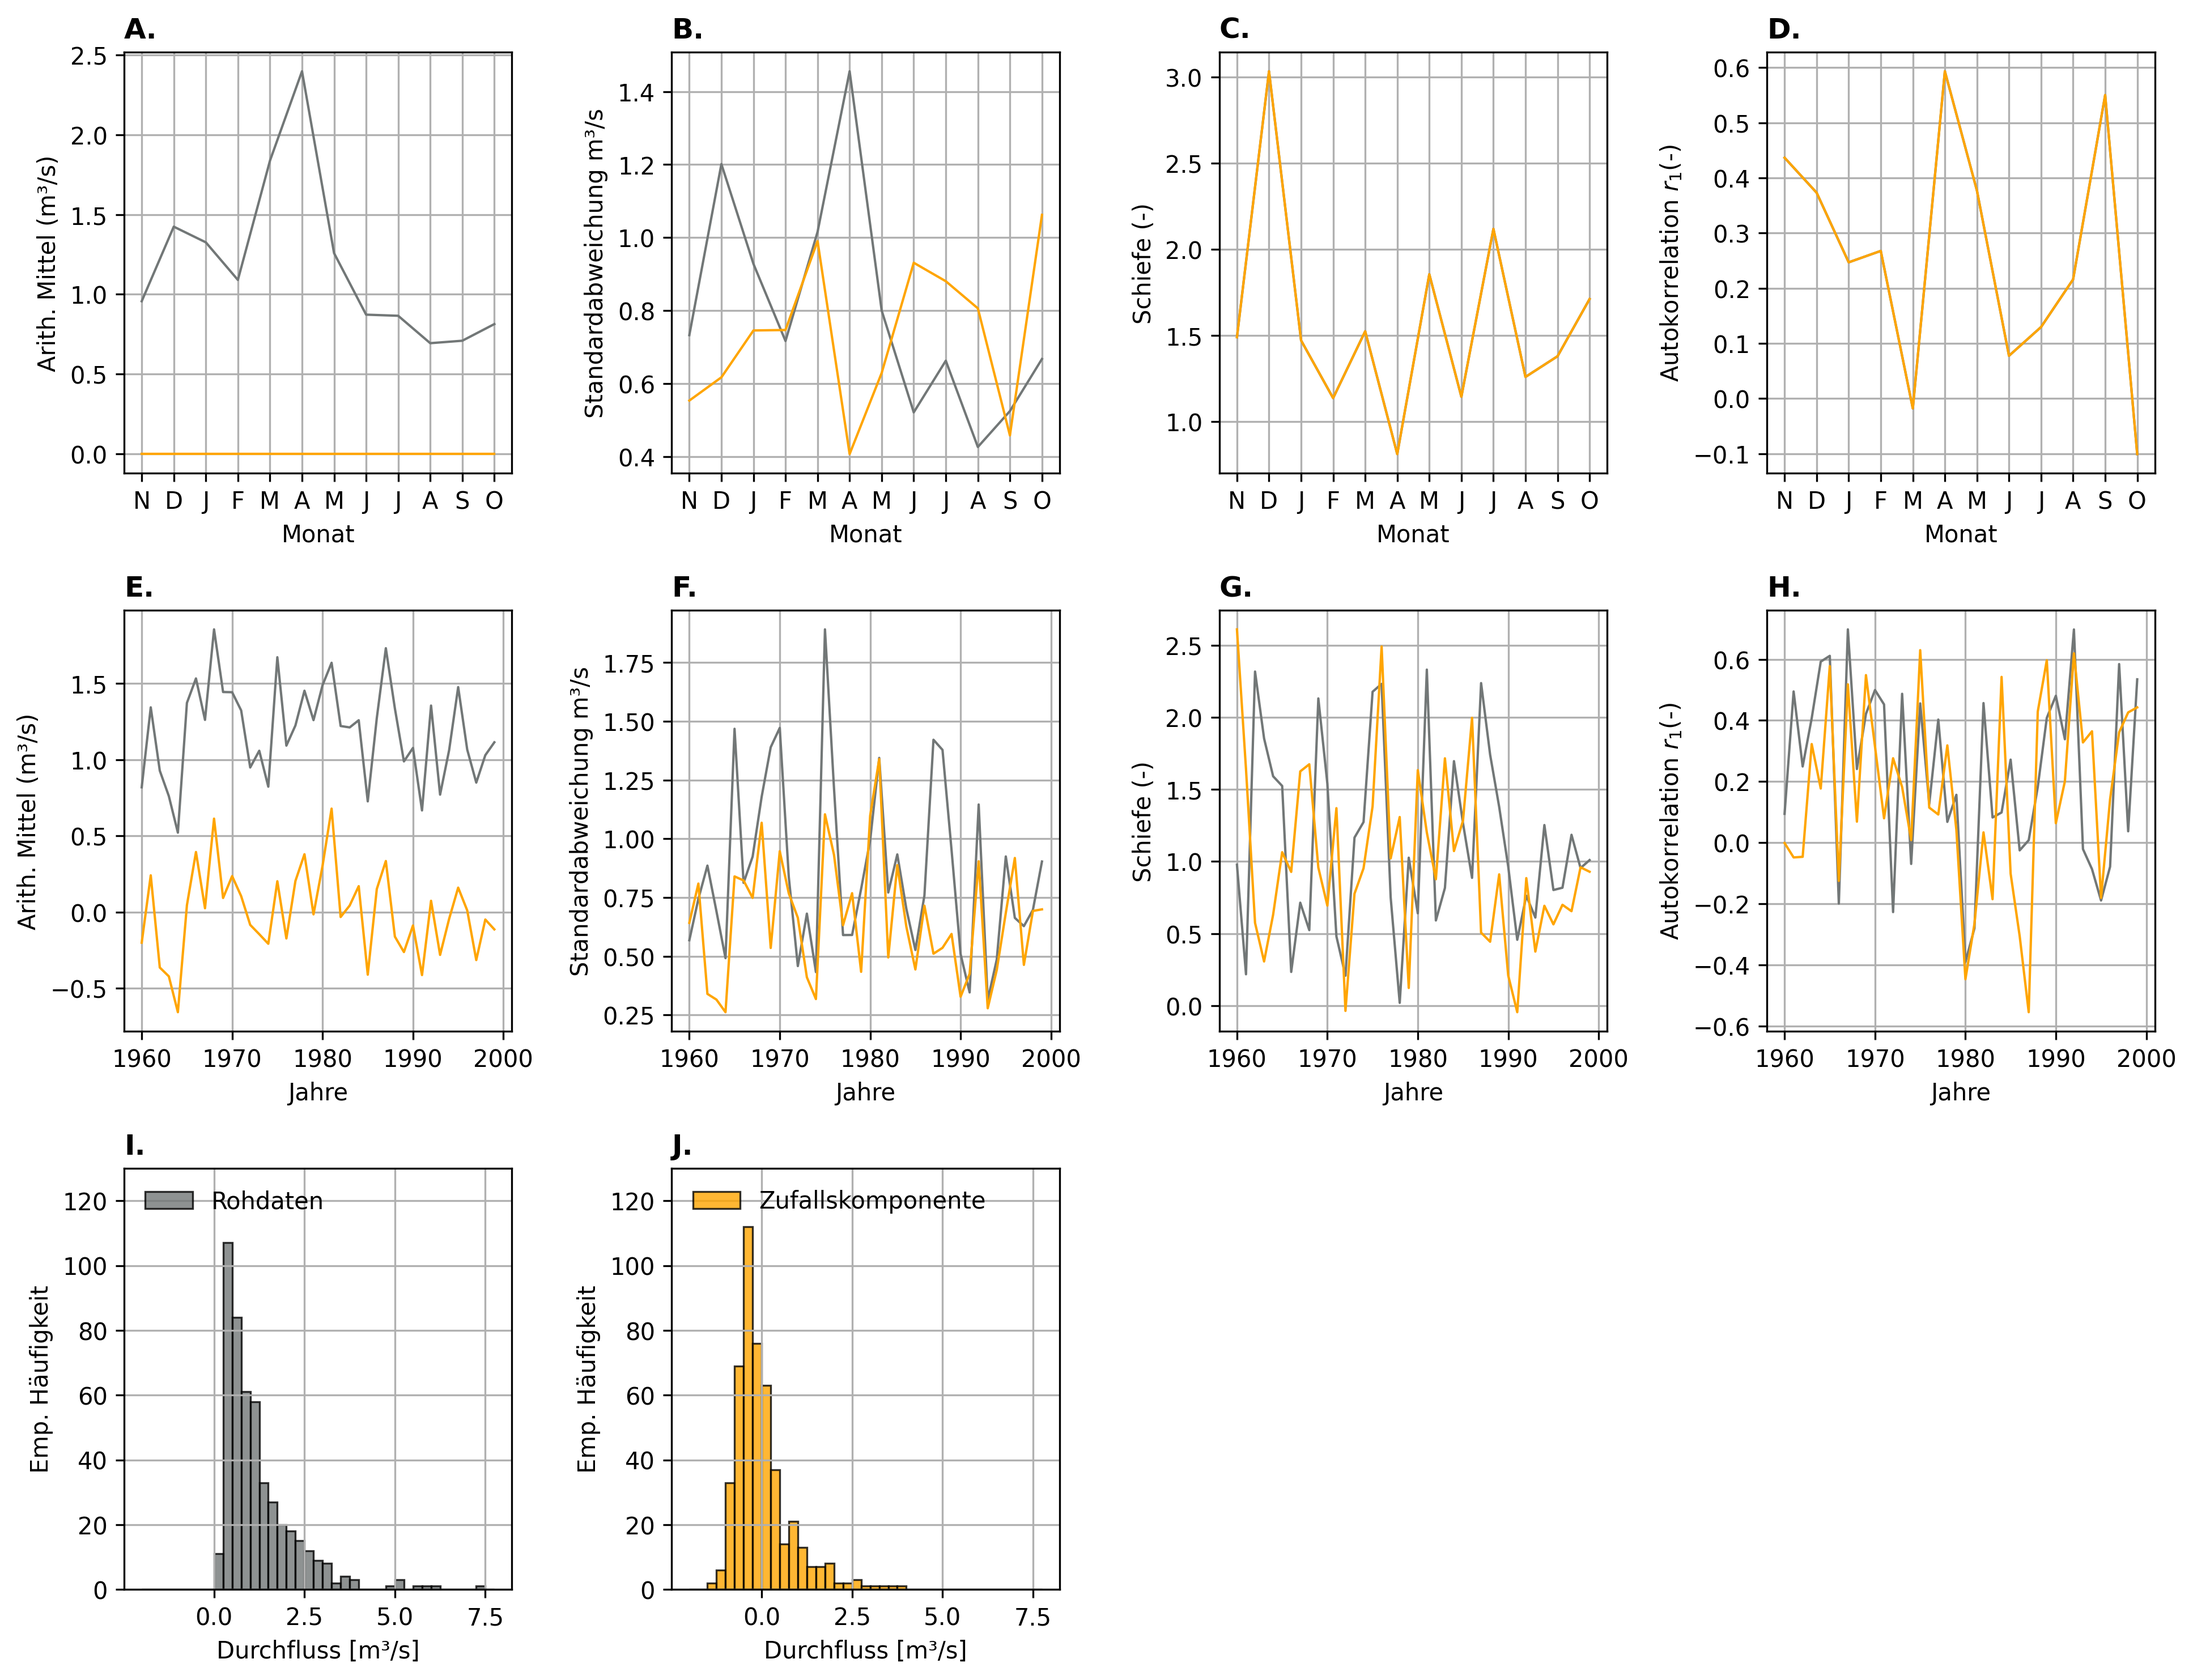
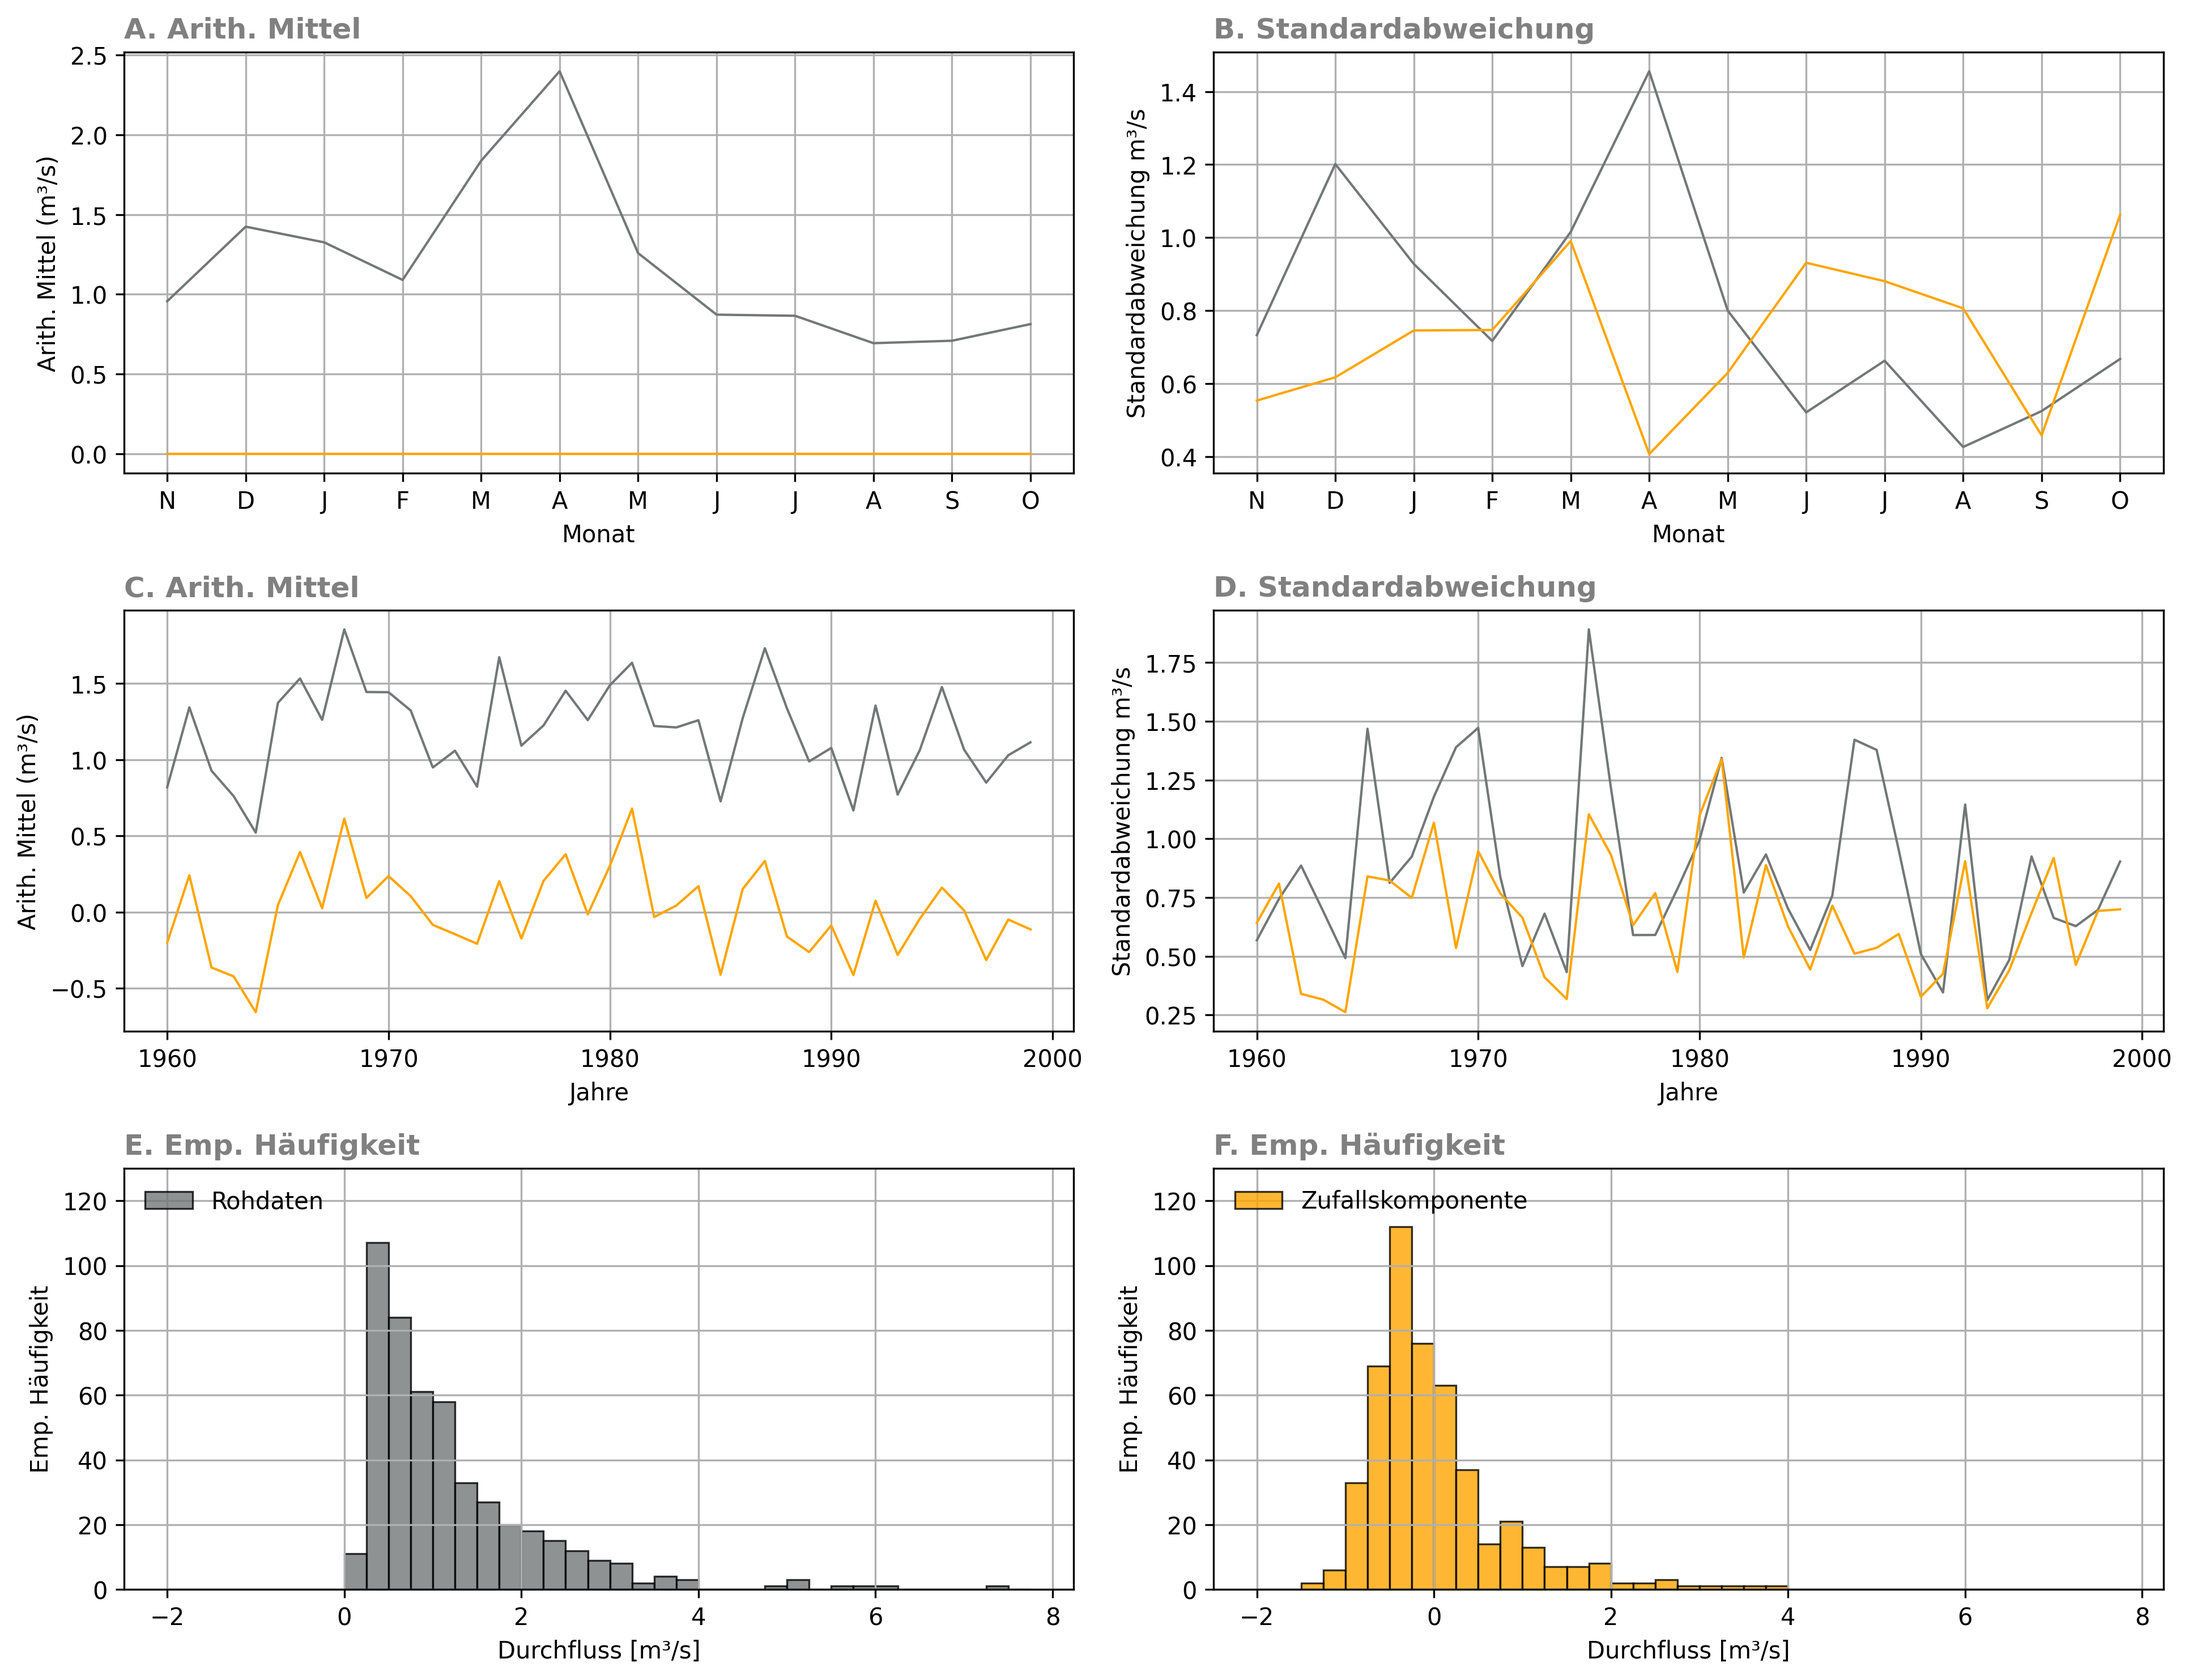
Reduce characteristics plot to mean std and hist

diff --git a/code/utils/plotting.py b/code/utils/plotting.py
@@ -298,6 +298,58 @@ def plot_characteristics(df: pd.DataFrame) -> None:
     plt.tight_layout()
     plt.savefig(image_path+f"{pegelname}_characteristics.png", dpi=300, bbox_inches="tight")    
 
+def plot_characteristics_short(df: pd.DataFrame) -> None:
+    """Plot statistics and histograms for different components."""
+    
+    _, ax = plt.subplots(nrows=3, ncols=2, figsize=(13, 10))
+    labels = ["Rohdaten", "Zufallskomponente"]
+    vars = ["Durchfluss_m3s", "zufall"]
+    colors = [tu_grey, "orange"]
+    ylabels = ["Arith. Mittel (m³/s)", "Standardabweichung m³/s"]
+    letters = ["A. Arith. Mittel", "B. Standardabweichung", "C. Arith. Mittel", "D. Standardabweichung", "E. Emp. Häufigkeit", "F. Emp. Häufigkeit"]
+    
+    for i in range(len(labels)):
+        var, label, color = vars[i], labels[i], colors[i]
+
+        x_months = np.arange(1, 13)
+        x_years = st.hyd_years(df)
+        
+        # upper row plots
+        ax[0,0].plot(x_months, st.binned_stats(df, var=var, bin="monthly", func=np.mean),
+                    c=color, linewidth=1, label=label)
+        ax[0,1].plot(x_months, st.binned_stats(df, var=var, bin="monthly", func=np.std),
+                    c=color, linewidth=1, label=label)
+         
+        # middle row plots
+        ax[1,0].plot(x_years, st.binned_stats(df, var=var, bin="yearly", func=np.mean),
+                    c=color, linewidth=1, label=label)
+        ax[1,1].plot(x_years, st.binned_stats(df, var=var, bin="yearly", func=np.std),
+                    c=color, linewidth=1, label=label)
+        
+        # lower row plots
+        hist_kwargs = {"bins": np.arange(-2, 8, 0.25), "lw": 0.8, "edgecolor": "black", "alpha": 0.8}
+        ax[2,i].hist(df[vars[i]], color=colors[i], label=labels[i], **hist_kwargs)
+    
+    for row_i in range(len(ax)):
+        for col_i in range(len(ax[row_i])):
+            ax[row_i, col_i].set_title(letters[row_i*len(ax[row_i])+col_i], loc='left', fontsize=12, fontweight="bold", color="grey")
+            ax[row_i, col_i].grid()
+            ax[0, col_i].set_xlabel("Monat")
+            ax[1, col_i].set_xlabel("Jahre")
+            ax[2, col_i].set_xlabel("Durchfluss [m³/s]")
+            ax[2, col_i].set_ylabel("Emp. Häufigkeit")
+            ax[0, col_i].set_ylabel(ylabels[col_i])
+            ax[1, col_i].set_ylabel(ylabels[col_i])
+            ax[0, col_i].set_xticks(x_months)
+            ax[0, col_i].set_xticklabels(MONTH_ABB)
+            ax[1, col_i].set_xticks([1960, 1970, 1980, 1990, 2000])
+            ax[1, col_i].set_xticklabels([1960, 1970, 1980, 1990, 2000])
+            ax[2, col_i].set_ylim([0, 130])
+            ax[2, col_i].legend(frameon=False, loc="upper left")
+            
+    plt.tight_layout()
+    plt.savefig(image_path+f"{pegelname}_characteristics.png", dpi=300, bbox_inches="tight")    
+
 def pairplot(df: pd.DataFrame) -> None:
     """Plot pairplot."""
     

diff --git a/code/utils/components/irregular_comp.py b/code/utils/components/irregular_comp.py
@@ -1,6 +1,6 @@
 import pandas as pd
 
-from utils.plotting  import plot_components, plot_characteristics, pairplot
+from utils.plotting  import plot_components, plot_characteristics_short, pairplot
 
 
 def irregular_comp(df: pd.DataFrame):
@@ -12,5 +12,5 @@ def irregular_comp(df: pd.DataFrame):
 
     # plot comparison of components    
     plot_components(df)
-    plot_characteristics(df)
+    plot_characteristics_short(df)
     pairplot(df)

diff --git a/code/main.py b/code/main.py
@@ -31,7 +31,7 @@ from utils.dimensioning.reliability import reliability
 CHECK_DATA = False          # Finished
 CALC_COMPONENTS = False     # TODO Check
 CALC_STATS = False          # TODO Check
-FIT_CAPACITIES = True      # Finished
+FIT_CAPACITIES = False      # Finished
 SIMULATION = False          # Finished
 CALC_BETA = False           # Finished
 RELIABILITY = False         # Finished
